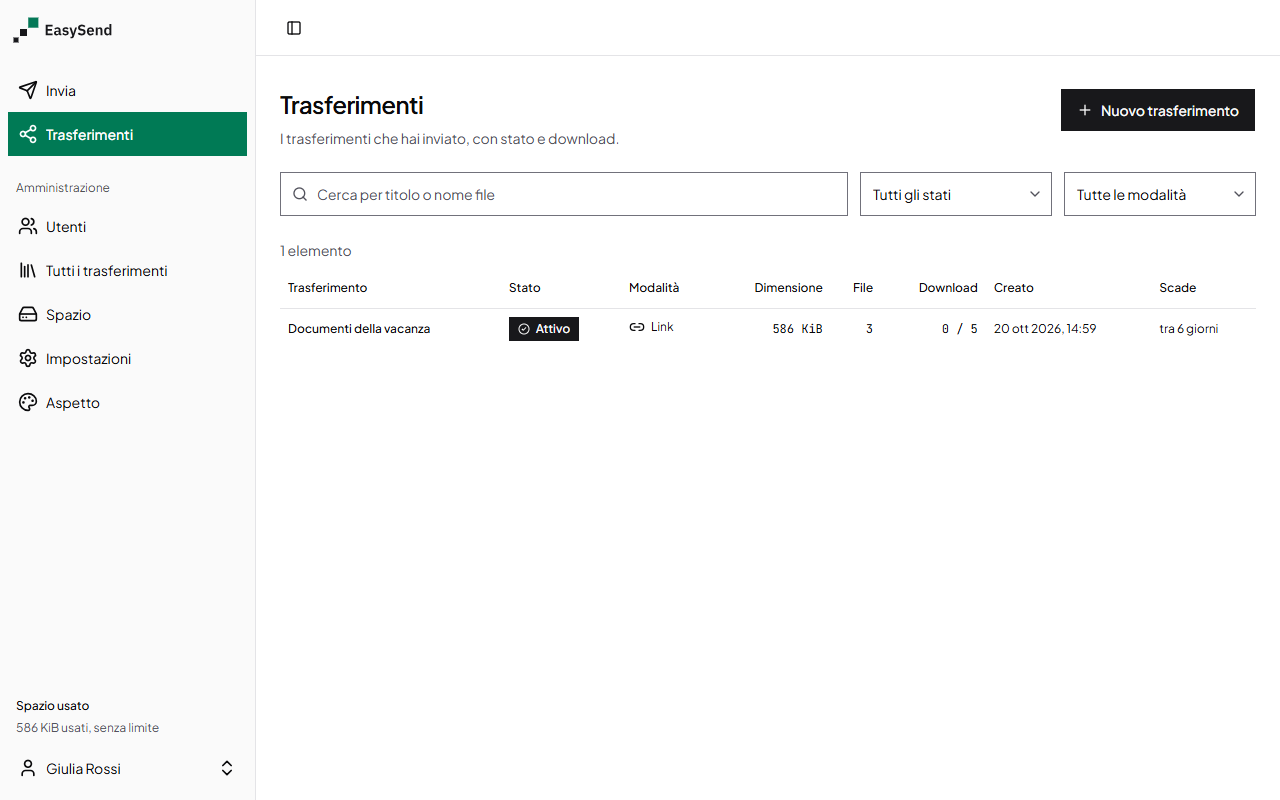
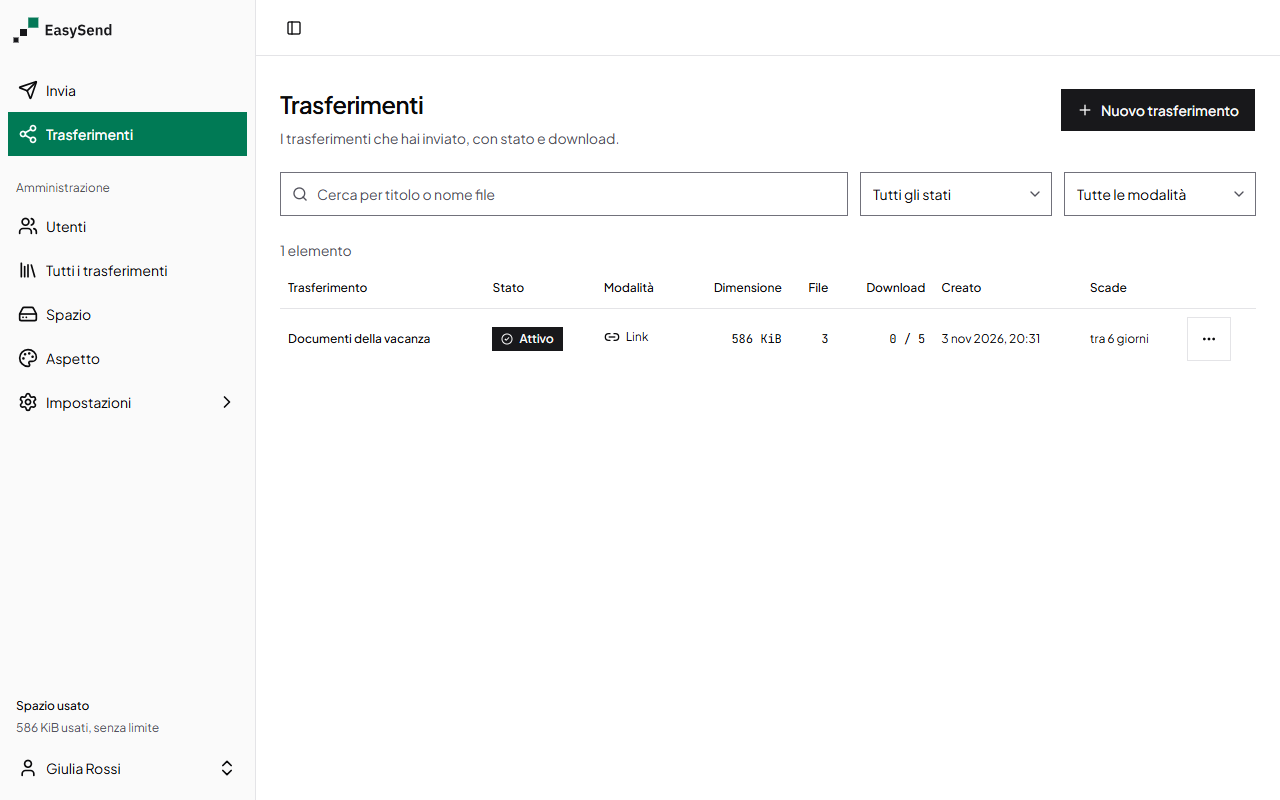
docs: cleanup decisions, README features and fresh screenshots (#45)

diff --git a/CLAUDE.md b/CLAUDE.md
@@ -17,7 +17,7 @@ Questo file contiene solo le regole fisse e le decisioni già prese.
 ## Git e GitHub
 - Il repository GitHub lo crei tu nella fase 0 con la CLI `gh` (dettagli in SPEC.md sezione 15). Se `gh` non è installata o autenticata, fermati e dimmi il comando da eseguire: non chiedermi mai token o password in chat.
 - `main` è sempre rilasciabile. Ogni fase si sviluppa su un branch dedicato (`feat/fase-N-descrizione`) con commit piccoli in formato Conventional Commits.
-- A fine fase fai push e apri una pull request collegata all'issue della fase, con il riepilogo della fase come descrizione. La CI deve essere verde. Il merge lo faccio io: tu non fai merge su `main`, non fai force push e non modifichi le regole di protezione senza chiedermelo.
+- A fine fase fai push e apri una pull request collegata all'issue della fase, con il riepilogo della fase come descrizione. La CI deve essere verde. Dal 2026-11-03 il merge lo fai tu quando te lo chiedo: prima `gh pr update-branch`, poi aspetti che i cinque controlli obbligatori siano verdi sull'ultimo commit e unisci con squash (`gh pr merge --squash --delete-branch`; serve la regola `Bash(gh pr merge:*)` in `.claude/settings.local.json`). La PR di release la unisco io. Non fai force push e non modifichi le regole di protezione senza chiedermelo.
 - Dopo il mio merge, aggiorna il `main` locale ed elimina il branch della fase prima di iniziare la successiva.
 
 ## Skill
@@ -200,5 +200,21 @@ Regole:
 - CLI di backup del DB: `backup-db` (backup online `manual-<ts>.sqlite`, ultimi 10) e `restore-db` (solo nomi `manual-*`/`app-pre-*`, `integrity_check`, salva prima il DB attuale come `app-pre-restore-*`).
 - `create-admin` chiede la password due volte se non è passata con `--password`.
 - Posizione dei dati: `DATA_PATH` facoltativo in `.env` (cartella assoluta dell'host, uid/gid 1000) sostituisce il volume `easysend-data` con un bind mount (`${DATA_PATH:-easysend-data}:/data`); `DATA_HOST_PATH` è solo per la visualizzazione e `admin.storage` risponde `dataLocation.hostPath` (null = volume Docker). `deploy.sh` e `rollback.sh` la validano (uscita 22, `EXIT_DATA_PATH`, trattata come `compose` dal runner), `backup.sh` monta la cartella al posto del volume, `uninstall.sh --purge` non cancella mai la cartella. I dati esistenti non si spostano da soli (guida `data-location`); `deploy.sh` e `rollback.sh` rifiutano una release il cui compose ignora `DATA_PATH`, per non avviarsi su un volume vuoto.
+- Pulizia del codice (audit di novembre 2026, PR #36–#44):
+  - Dimensioni in unità binarie (B, KiB, MiB, GiB, TiB) ovunque, email comprese: un solo `formatBytes` in `packages/shared/src/format.ts`, usato da API e web.
+  - Un solo template email (`mail/templates/standard.tsx`) con elenco di dettagli e messaggio facoltativi.
+  - Cookie firmati `<exp>.<mac>` (`es_dl`, `es_dlr`, `es_setup`) con gli helper di `http/signed-cookie.ts`; scrittura dell'audit con `auditRequest` (`audit.ts`).
+  - Il controllo dell'origine (`rejectCrossSite`) gira una volta per richiesta: `requireCsrf` lo salta se è già stato fatto, così le rotte montate fuori dal middleware globale (tus) restano protette.
+  - Impostazioni in cache in memoria nel repository delle impostazioni, svuotata da `set`/`delete` (un solo processo; le CLI girano con l'API ferma).
+  - Elenco dei trasferimenti con una sola query; `shareUrl` è nel riepilogo, quindi anche negli elenchi.
+  - Stati `deleted` ed `expired` dei trasferimenti: valori riservati dell'enum, mai scritti (la pulizia cancella le righe, `expired` si calcola).
+  - Limiter degli aggiornamenti in `updates/policy.ts`, separati da quelli del setup.
+  - Avvisi di sicurezza senza correzione a monte: `overrides` di pnpm verso la versione corretta (`body-parser`, `systeminformation`) invece di ignorarli.
+- Interfaccia (novembre 2026):
+  - Azioni per riga nelle tabelle (utenti, trasferimenti, trasferimenti dell'admin) in un menu ⋯ (`RowActionsMenu`, 44×44 px), azioni distruttive in fondo dopo un separatore; chiusa la finestra, il focus torna al pulsante del menu o al contenuto principale se la riga non esiste più. La logica delle azioni sui trasferimenti è in `useTransferActions`, condivisa con il dettaglio.
+  - Impostazioni admin in quattro pagine (`/admin/settings/{general,email,cloudflare,updates}`, `/admin/settings` porta a Generali) con un sottomenu apribile nella sidebar (shadcn `Collapsible` + `SidebarMenuSub`); con la sidebar a icone diventa un menu a tendina.
+  - Form condivisi tra wizard e pannello: SMTP e Cloudflare in `pages/settings-forms/` (schemi derivati da quelli shared), `SelectField`/`LocaleSelectField`, `NewPasswordFields`; i limiti dei campi vengono da costanti shared.
+  - `cursor: pointer` su tutti i controlli abilitati, con una regola globale nel livello `base` di `index.css` (Tailwind 4 non lo mette più).
+- CI: sulle PR che cambiano solo documentazione (`docs/`, Markdown, `LICENSE`, template delle issue) il job `e2e` parte e risulta verde ma salta build e Playwright; i push su `main` eseguono sempre tutto.
 - Skill di progetto in `.claude/skills/` (fine fase 6): `drizzle-migration`, `api-endpoint`, `release-and-deploy`, `e2e-spec`, `shadcn-component`. Vanno aggiornate quando cambia la procedura che descrivono; non prevalgono su questo file né su SPEC.
 - Aggiornamento con un clic (fase 7, facoltativo): protocollo a file nella cartella host `/opt/easysend/updates/` ↔ `/updates` nel container api (bind mount `./updates:/updates`, `UPDATE_DIR`): `runner.json` (scritto dall'installer), `request` (dall'API, testo `id`/`version`/`requestedAt`, 0640), `status.json` (dal runner e da `deploy.sh`, 0644, scritto con rename). `scripts/update-service.sh install [--user U]` (root) crea `updates/` (uid 1000 + gruppo dell'utente del runner, modo 2770) e le unità `easysend-update.path` (`PathExists=…/updates/request`) e `.service` (oneshot, utente = proprietario della cartella di installazione, deve essere in `docker`; `NoNewPrivileges`, `PrivateTmp`, `ProtectSystem=full`, `ProtectHome=read-only` quindi l'installazione sta in `/opt`; timeout 45 min). `update-runner.sh` sposta la richiesta fuori dalla cartella scrivibile dal container prima di leggerla, la valida (3 righe, id esadecimale da 32, semver, niente `eval`), la consuma sempre e lancia `deploy.sh <versione> --yes` con log in `.deploy/update.log` (5 conservati). Codici di uscita di `deploy.sh` in `common.sh`: 75 occupato (lock condiviso col deploy manuale), 20 compose, 21 backup, 30 ripristinato, 31 rollback fallito; passi `update_step` (starting, compose, backup, pull, restart, health, rollback, done). L'API (`admin.updateRun`, `admin.updateStart`, `routes/admin-updates.ts`) accetta solo una release pubblicata, non bozza né pre-release, `X.Y.Z` e più recente di quella in uso (qualsiasi, non solo l'ultima; elenco fino a 30), ricontrollata su GitHub; solo admin, CSRF, 5 richieste/ora, audit `system.update_requested`. Richiesta non presa in carico entro 2 minuti = "non risponde" (non blocca); stato `running` più vecchio di 45 minuti non blocca più. In locale non disponibile. UI: scelta versione e finestra di conferma, nessun pulsante di rollback (si usa `rollback.sh`). Nota per chi parte dalla 0.1.x: il vecchio `deploy.sh` aggiornandosi alla 0.2.0 non scarica `update-runner.sh` e `update-service.sh` né crea `updates/` (lo crea Docker come root); vanno scaricati a mano una volta, poi `sudo ./scripts/update-service.sh install` (comandi nella guida `updates`); dalla 0.2.0 `deploy.sh` li aggiorna.

diff --git a/README.it.md b/README.it.md
@@ -18,6 +18,8 @@ EasySend è un'applicazione web self-hosted per inviare file di grandi dimension
 - Utenti con ruoli e quote, autenticazione a due fattori obbligatoria per gli admin.
 - Interfaccia in italiano e inglese, tema chiaro e scuro, branding configurabile.
 - Wizard di setup per admin, SMTP, tunnel Cloudflare e impostazioni generali.
+- Aggiornamento con un clic dal pannello admin, facoltativo, eseguito da una piccola unità systemd sull'host (niente socket di Docker nei container).
+- Dati in un volume Docker o in una cartella dell'host a tua scelta, per esempio un secondo disco.
 
 ## Avvio rapido
 
@@ -42,7 +44,7 @@ Documentazione completa: **https://ivanerricis.github.io/easysend/it/** (disponi
 - [Requisiti](https://ivanerricis.github.io/easysend/it/guide/requirements) e [preparazione dell'LXC](https://ivanerricis.github.io/easysend/it/guide/lxc)
 - [Installazione](https://ivanerricis.github.io/easysend/it/guide/install) e [primo setup](https://ivanerricis.github.io/easysend/it/guide/first-setup)
 - [Token API di Cloudflare](https://ivanerricis.github.io/easysend/it/guide/cloudflare)
-- [Backup e ripristino](https://ivanerricis.github.io/easysend/it/guide/backup)
+- [Posizione dei dati](https://ivanerricis.github.io/easysend/it/guide/data-location) e [backup e ripristino](https://ivanerricis.github.io/easysend/it/guide/backup)
 - [Aggiornamento e rollback](https://ivanerricis.github.io/easysend/it/guide/updates)
 - [Note di sicurezza](https://ivanerricis.github.io/easysend/it/guide/security) e [risoluzione dei problemi](https://ivanerricis.github.io/easysend/it/guide/troubleshooting)
 

diff --git a/README.md b/README.md
@@ -18,6 +18,8 @@ EasySend is a self-hosted web application for sending large files, similar to We
 - Users with roles and quotas, mandatory two-factor authentication for admins.
 - Italian and English interface, light and dark theme, configurable branding.
 - Setup wizard for admin, SMTP, Cloudflare tunnel and general settings.
+- Optional one-click update from the admin panel, run by a small systemd unit on the host (no Docker socket in the containers).
+- Data in a Docker volume or in a host folder of your choice, for example a second disk.
 
 ## Quick start
 
@@ -42,7 +44,7 @@ Full documentation: **https://ivanerricis.github.io/easysend/** (also in [Italia
 - [Requirements](https://ivanerricis.github.io/easysend/guide/requirements) and [LXC preparation](https://ivanerricis.github.io/easysend/guide/lxc)
 - [Installation](https://ivanerricis.github.io/easysend/guide/install) and [first setup](https://ivanerricis.github.io/easysend/guide/first-setup)
 - [Cloudflare API token](https://ivanerricis.github.io/easysend/guide/cloudflare)
-- [Backup and restore](https://ivanerricis.github.io/easysend/guide/backup)
+- [Data location](https://ivanerricis.github.io/easysend/guide/data-location) and [backup and restore](https://ivanerricis.github.io/easysend/guide/backup)
 - [Updating and rollback](https://ivanerricis.github.io/easysend/guide/updates)
 - [Security notes](https://ivanerricis.github.io/easysend/guide/security) and [troubleshooting](https://ivanerricis.github.io/easysend/guide/troubleshooting)
 
